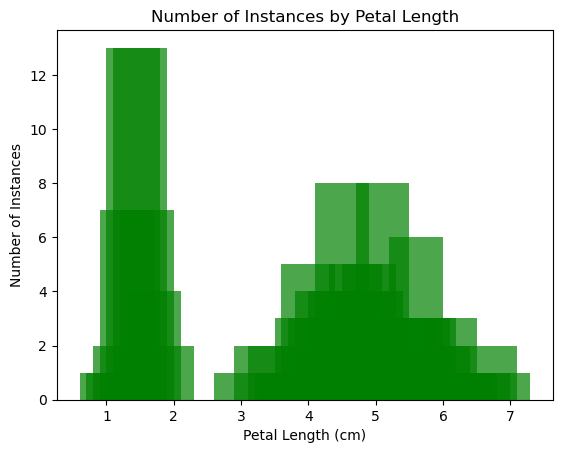
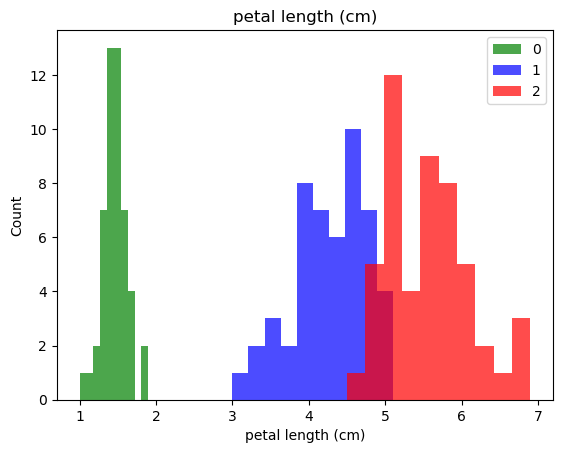
edited code

diff --git a/content/topics/Analyze/machine-learning/supervised/random_forest.md b/content/topics/Analyze/machine-learning/supervised/random_forest.md
@@ -16,15 +16,14 @@ aliases:
 
 ## Overview
 
-The goal of this article is to provide a theoretical and practical guide to [random forests](https://link.springer.com/article/10.1023/a:1010933404324). The article is divided as follows:
+The goal of this article is to provide a theoretical and practical guide to [Random Forests](https://link.springer.com/article/10.1023/a:1010933404324). The article is divided as follows:
 
 1. Introduction to Random Forests (**Theoretical Background**).
 2. Practical application in Python (**Python Application**).
-<!-- 3. Evaluation of a model's results (**Model Evaluation**). -->
 
-The primary objective of machine learning (ML) is to employ `statistical` `learning` `methods`, such as supervised learning, unsupervised learning, and reinforcement learning, to analyse a dataset of interest. ML is primarily concerned with outcome prediction. Therefore, the emphasis lies in utilising techniques that enable the estimation of a function, denoted as f', which closely approximates the real function f. This approximation ensures that the model, once trained, can accurately predict future and unknown values of f based on the acquired knowledge from the dataset.
+The primary objective of machine learning (ML) is to employ *statistical learning methods*, such as supervised learning, unsupervised learning, and reinforcement learning, to analyse a dataset of interest. ML is primarily concerned with outcome prediction. Therefore, the emphasis lies in utilising techniques that enable the estimation of a function, denoted as f', which closely approximates the real function f. This approximation ensures that the model, once trained, can accurately predict future and unknown values of f based on the acquired knowledge from the dataset.
 
-In the context of supervised learning, where both predictors and responses are known, one of the most widely employed methods is the random forest. This ensemble learning technique leverages the power of multiple [decision trees](https://www.taylorfrancis.com/books/mono/10.1201/9781315139470/classification-regression-trees-leo-breiman), thereby enhancing accuracy and facilitating the generalization of results to previously unseen data. Practically, random forests average many decision trees to reduce their inherent high variance and prevent overfitting.
+In the context of *supervised learning*, where both predictors and responses are known, one of the most widely employed methods is the random forest. This ensemble learning technique leverages the power of multiple [Decision Trees](https://www.taylorfrancis.com/books/mono/10.1201/9781315139470/classification-regression-trees-leo-breiman), thereby enhancing accuracy and facilitating the generalization of results to previously unseen data. Practically, random forests average many decision trees to reduce their inherent high variance and prevent overfitting.
 
 Among the properties that make decision trees, and hence random forests, outperform less flexible methods such as subset selection techniques or OLS are the facts that they are:
 
@@ -35,20 +34,20 @@ Among the properties that make decision trees, and hence random forests, outperf
 - **intuitive and computationally efficient**.
 
 
-In addition, random forests can be used not only for exploratory data anlaysis and predictive modelling, but also for variable selection and dimensionality reduction. Finally, they are used to perform both regression and classification tasks and can handle large datasets with high dimensionality. 
+In addition, random forests can be used not only for exploratory data anlaysis and predictive modelling, but also for variable selection and dimensionality reduction. Finally, they are employed in both regression and classification tasks and can handle large datasets with high dimensionality. 
 
 
 ## Theoretical Background
 
-In order to explain how random forests make predicitions, it is necessary to start from basic decision trees. Decision trees divide the predictor space into R distinct regions. In a regression problem, every training observation that is part of the same region (Rj) is predicted as the mean of the response values that are part of that region. Instead, in a classification problem, the most occurring class within each region is then defined as the class to which each training observation of the region belongs. Therefore, within the same region Rj, we make the same predictions. 
+In order to explain how random forests make predicitions, it is necessary to start from basic decision trees. Decision trees divide the predictor space into R distinct regions. In a **regression problem**, every training observation that is part of the same region (Rj) is predicted as the mean of the response values that are part of that region. Instead, in a **classification problem**, the most occurring class within each region is then defined as the class to which each training observation of the region belongs. Therefore, within the same region Rj, we make the same predictions. 
 
-The predictor space is divided by following a *top-down* and *greedy* approach called `recursive` `binary` `splitting`. It is top-down because it starts from the top of the tree and greedy because each split is chosen based on a criterion that maximises the information gain at that specific point, rather than choosing a split that would lead to an overall greater information gain.
+The predictor space is divided by following a *top-down* and *greedy* approach called *recursive binary splitting*. It is top-down because it starts from the top of the tree and greedy because each split is chosen based on a criterion that maximises the information gain at that specific point, rather than choosing a split that would lead to an overall greater information gain.
 
 {{% warning %}} 
 Decision trees represent a great alternative to other supervised learning methods when it comes to interpretability. However, due to their **high variance**, they tend to perform worse in terms of predictability.
 {{% /warning %}}
 
-The `solution` is to employ tree-based methods (e.g., **random forests**) that rely on multiple decision trees that are combined together to give a single consensus prediction.  
+The solution is to employ tree-based methods (e.g., **random forests**) that rely on multiple decision trees that are combined together to give a single consensus prediction.  
 
 {{% tip %}}
 This is accomplished by exploiting the principle that, in a **sequence** of **n independent observations**, each with its own variance, the **variance of the mean goes to zero** as n becomes sufficiently large. As a result, it becomes possible to decrease the inherent high variance of decision trees and enhance test set accuracy by iteratively sampling from the training set to estimate the sampling distribution of the relevant statistic.
@@ -76,9 +75,6 @@ from sklearn.preprocessing import StandardScaler
 from sklearn.model_selection import train_test_split
 from sklearn.ensemble import RandomForestClassifier
 from sklearn import metrics
-
-ADD MORE IF NEEDED!!!!!!!!!!!!!!!!!!!!!!!!!!!!!!!!!!!!!!!!!!!!!!!!!!!!!!!!!!!
-
 ```
 {{% /codeblock %}}
 
@@ -109,7 +105,7 @@ iris_df.describe()
 
 ### Exploratory Data Analysis
 
-Exploratory data analysis allows one to identify `patterns` and `relationships` (i.e., missing values, distribution of variables, balanced/imbalanced datsets etc..) within the data. This is relevant to gain insights which can then guide further analysis or hypothesis generation. Three examples of possible ways to proceed are provided below.
+Exploratory data analysis allows one to identify *patterns* and *relationships* (i.e., missing values, distribution of variables, balanced/imbalanced datsets etc..) within the data. This is relevant to gain insights which can then guide further analysis or hypothesis generation. Three examples of possible ways to proceed are provided below.
 
 Checking if the dependent variable is **balanced**:
 {{% codeblock %}} 
@@ -133,22 +129,21 @@ print(missing_values)
 {{% /codeblock %}}
 
 
-**Plotting histograms** with `matplotlib` to gain insights into the distribution of the data:
+**Plotting** a **histogram** for each variable, grouped by the target variable, using `matplotlib` to gain insights into the distribution of the data:
 
 {{% codeblock %}} 
 ```python
+cols = iris.feature_names
 
-# SEPAL LENGTH
-petal_length_counts = iris_df['sepal length (cm)'].value_counts().reset_index()
-petal_length_counts.columns = ['Sepal Length (cm)', 'Count']
-petal_length_counts = petal_length_counts.sort_values(by = 'Sepal Length (cm)')
-
-plt.bar(petal_length_counts['Sepal Length (cm)'], petal_length_counts['Count'], align = 'center', alpha = 0.7)
-plt.xlabel('Sepal Length (cm)')
-plt.ylabel('Number of Instances')
-plt.title('Number of Instances by Sepal Length')
-plt.show()
-
+for label in cols:
+    plt.hist(iris_df[iris_df["target"]==0][label], color='green', label = '0', alpha=0.7)
+    plt.hist(iris_df[iris_df["target"]==1][label], color='blue', label = '1', alpha=0.7)
+    plt.hist(iris_df[iris_df["target"]==2][label], color='red', label = '2', alpha=0.7)
+    plt.title(label)
+    plt.ylabel("Count")
+    plt.xlabel(label)
+    plt.legend()
+    plt.show()
 ```
 {{% /codeblock %}}
 
@@ -156,28 +151,19 @@ plt.show()
 <img src = "../images/sepal_length.png" width="500">
 </p>
 
-{{% codeblock %}} 
-```python
-
-# PETAL LENGTH
-petal_length_counts = iris_df['petal length (cm)'].value_counts().reset_index()
-petal_length_counts.columns = ['Petal Length (cm)', 'Count']
-petal_length_counts = petal_length_counts.sort_values(by = 'Petal Length (cm)')
-
-plt.bar(petal_length_counts['Petal Length (cm)'], petal_length_counts['Count'], align = 'center', alpha = 0.7, color = 'green')
-plt.xlabel('Petal Length (cm)')
-plt.ylabel('Number of Instances')
-plt.title('Number of Instances by Petal Length')
-plt.show()
-
-```
-{{% /codeblock %}}
+<p align = "center">
+<img src = "../images/sepal_width.png" width="500">
+</p>
 
 <p align = "center">
 <img src = "../images/petal_length.png" width="500">
 </p>
 
-From the two graphical representations above, it is clear that **petal length** has a **bimodal distribution**, which suggests that the data can be grouped into two separate clusters.
+<p align = "center">
+<img src = "../images/petal_width.png" width="500">
+</p>
+
+From the four graphical representations above, it is clear that both **petal length** and **petal width** exhibit a **bimodal distribution**, implying that the data can be partitioned into two distinct clusters.
 
 
 ### Data Preprocessing
@@ -191,7 +177,7 @@ Once we have a clearer picture of the dataset we are dealing with, we can procee
 
 # Standardisation
 scaler = StandardScaler()
-iris_df[['sepal length (cm)', 'sepal width (cm)', 'petal length (cm)', 'petal width (cm)']] = scaler.fit_transform(iris_df[['sepal length (cm)', 'sepal width (cm)', 'petal length (cm)', 'petal width (cm)']])
+iris_df[iris.feature_names] = scaler.fit_transform(iris_df[iris.feature_names])
 
 # Summary statistics
 iris_df.describe()
@@ -225,7 +211,7 @@ X_train, X_test, y_train, y_test = train_test_split(X, y, test_size = 0.2, rando
 
 # Random forest model
 r_forest = RandomForestClassifier(n_estimators = 500, # number of trees in the forest
-                               random_state = 17, # 
+                               random_state = 17,
                                criterion = "gini", # splitting criterion
                                max_depth = 4) # maximum number of end-nodes of the tree
 
@@ -235,7 +221,7 @@ r_forest.fit(X_train, y_train)
 ```
 {{% /codeblock %}}
 
-In the code snippet above, the `random_state` parameter is utilised to consistently produce the same set of random decisions during the training process, ensuring **reproducibility**. In addition, the `max_depth` parameter controls the maximum depth of each individual decision tree. You may want to set a maximum depth to **avoid overfitting** and **enhance interpretability** while being aware that it may come at the expense of predicition accuracy within the training set.
+In the code snippet above, the *random_state* parameter is utilised to consistently produce the same set of random decisions during the training process, ensuring **reproducibility**. In addition, the *max_depth* parameter controls the maximum depth of each individual decision tree. You may want to set a maximum depth to **avoid overfitting** and **enhance interpretability** while being aware that it may come at the expense of predicition accuracy within the training set.
 
 {{% tip %}} 
 
@@ -243,28 +229,99 @@ When implementing the [RandomForestClassifier()](https://scikit-learn.org/stable
 
 **What is the purpose of such randomness?**
 
-As mentioned in the `Theoretical` `Background` section, the objective is to reduce the high variance of decision trees. Introducing randomness allows us to create decision trees with less correlated prediction errors. Consequently, when averaging multiple trees, some of the errors may cancel out, resulting in an overall improved model.
+As mentioned in the *Theoretical Background* section, the objective is to reduce the high variance of decision trees. Introducing randomness allows us to create decision trees with less correlated prediction errors. Consequently, when averaging multiple trees, some of the errors may cancel out, resulting in an overall improved model.
 
 
 {{% /tip %}}
 
 
 ### Model Evaluation
+Given the prediction-oriented focus of machine learning, the goal is to **minimise the overall prediction error**, which is made up of three components, namely, **bias**, **variance**, and **irreducible error**. The bias decreases with flexibility, the variance increases with flexibility, and the irreducible component is a consequence of data noise and cannot really be dealt with. To determine the model with the optimal variance-bias trade-off, various **evaluation techniques** can be employed.
+
+Use the previously trained model to **make predictions**:
 
 {{% codeblock %}} 
 ```python
+y_pred = r_forest.predict(X_test)
 
+```
+{{% /codeblock %}}
+
+Employ **evaluation techniques** such as accuracy, precision, and recall to **assess model performance**:
+
+<br/>
+
+**Accuracy**
+
+Accuracy measures the overall performance of a model by identifying how many observations, whether positive or negative, are correctly classified. The higher the accuracy, the better the performance.
+
+{{% codeblock %}} 
+```python
+accuracy = metrics.accuracy_score(y_test, y_pred)
+accuracy
+```
+{{% /codeblock %}}
+
+
+{{% warning %}}
+Accuracy is not suitable for imbalanced datasets because it does not account for the class distribution of the data.
+{{% /warning %}}
+
+
+**Precision**
+
+Precision provides the proportion of the truly positive predictions out of all the positive predictions (both true positives and false positives) made by the model. Unlike accuracy, precision can be used with imbalanced datasets and allows to assess the model's ability to minimise false positives. The higher the precision, the better the performance.
+
+{{% codeblock %}} 
+```python
+precision = metrics.precision_score(y_test, y_pred, average = 'micro')
+precision
 
 ```
 {{% /codeblock %}}
 
 
+**Recall**
+
+Recall, also known as sensitivity, indicates the ratio of the model's correctly identified positive predictions to all the actual positive predictions. A higher recall value indicates that the model performs well at identifying positive instances. Hence, recall focuses on minimising false negatives.
+
+{{% codeblock %}} 
+```python
+recall = metrics.recall_score(y_test, y_pred, average = 'micro')
+recall
+
+```
+{{% /codeblock %}}
 
 
+The *average* parameter (see precision and recall code snippets) is used in multiclass classification problems to aggregate the precision/recall score for different classes into a single score. If set to *micro*, precision is calculated globally by counting true positives and false positives and then aggregating these values.
 
 
+{{% tip %}}
+**Faster alternative to calculate all evaluation metrics simultaneously:**
 
+from sklearn.metrics import classification_report
 
+print(classification_report(y_test, y_pred))
+{{% /tip %}}
+
+### Model Tuning
+
+{{% codeblock %}} 
+```python
+from sklearn.model_selection import GridSearchCV
+
+params = {'n_estimators': [100, 200, 300, 400, 500],
+          'max_depth': np.arange(1, 20)}
+
+grid = GridSearchCV(estimator = r_forest,
+                    param_grid = params)
+
+grid.fit(X_train, y_train)
+print(grid.best_score_)
+print(grid.best_params_)
+```
+{{% /codeblock %}}
 
 
 {{% summary %}}
